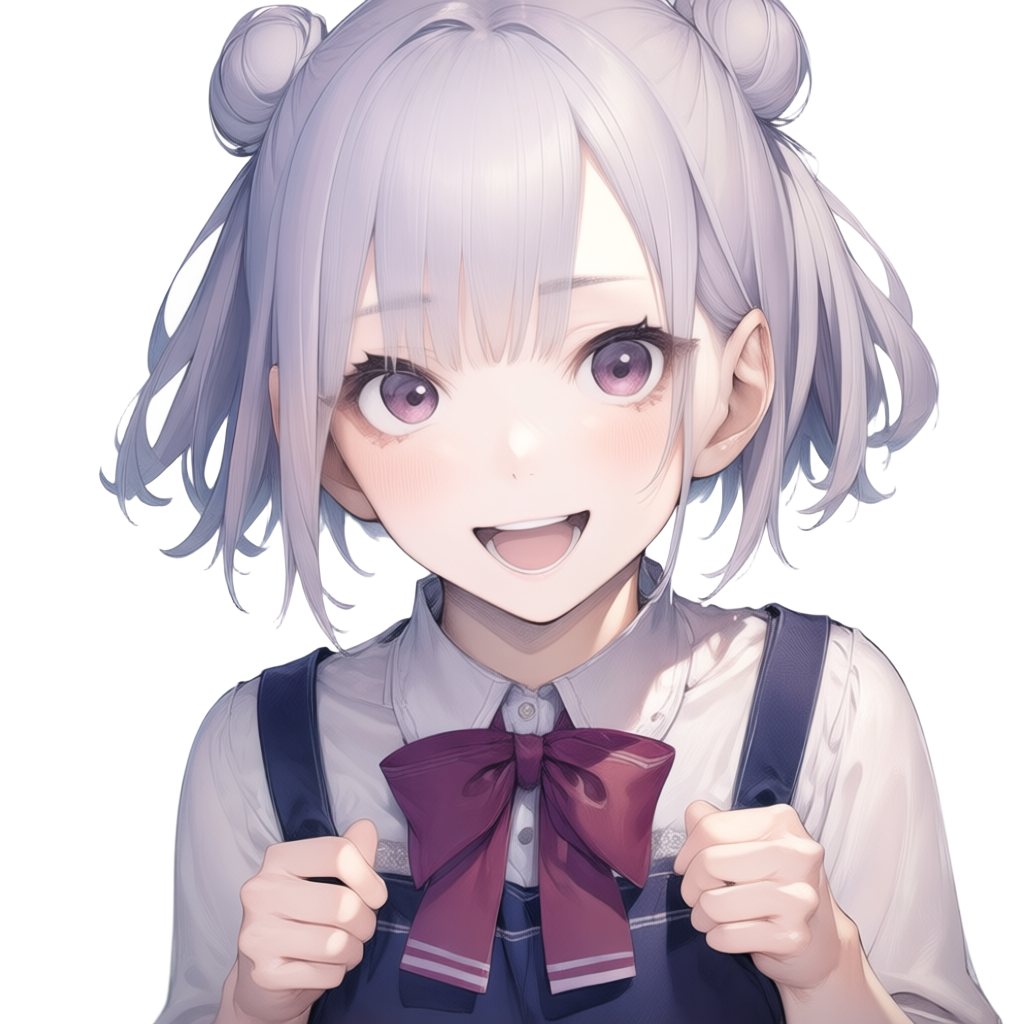
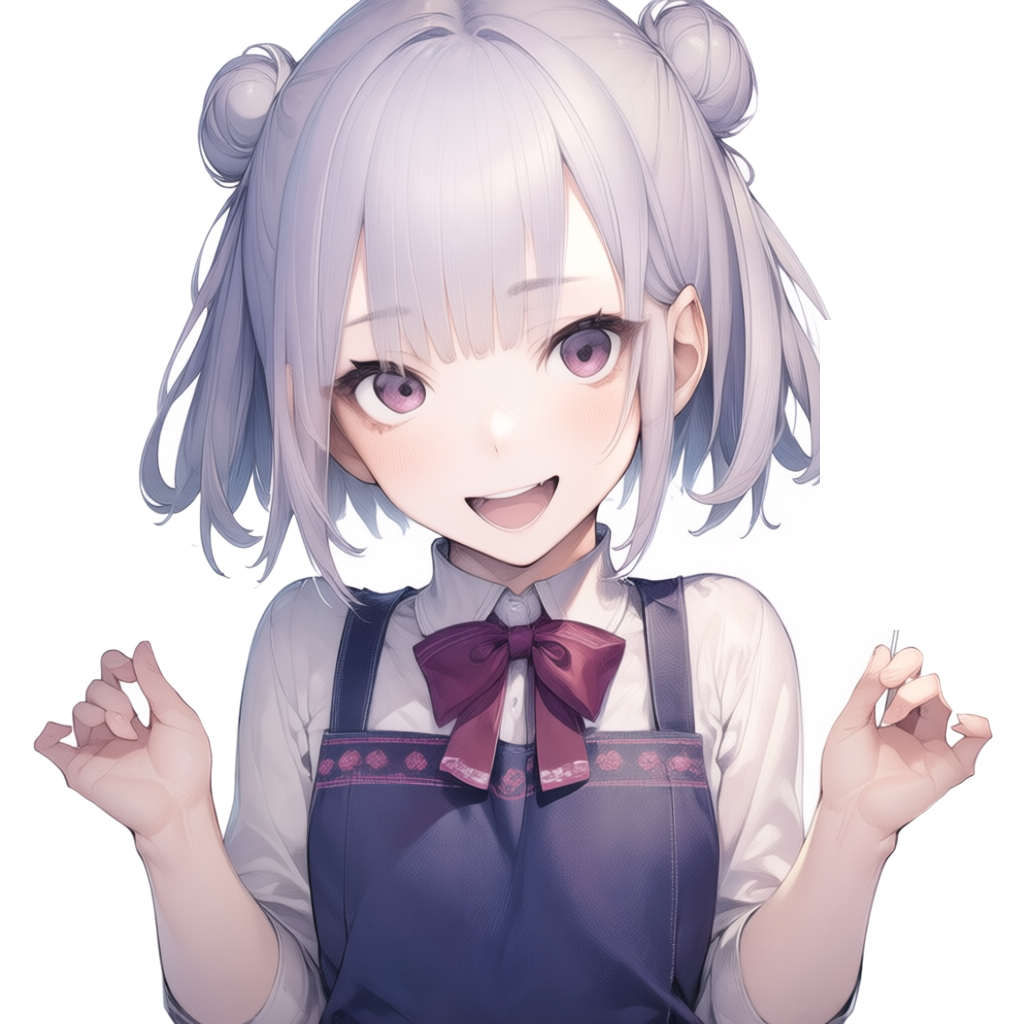
fix: clean duplicate first-sale reaction pilot

diff --git a/tools/assets/remove_white_background.py b/tools/assets/remove_white_background.py
@@ -1,0 +1,57 @@
+"""Remove a connected white background while preserving the original canvas.
+
+This is a narrow fallback for white-background character renders when the
+background-removal model produces an opaque result.  Only near-white pixels
+connected to the image border are removed; enclosed white clothing/highlights
+are retained.  The input is never modified.
+"""
+
+from __future__ import annotations
+
+import argparse
+from pathlib import Path
+
+import numpy as np
+from PIL import Image
+from scipy import ndimage
+
+
+def remove_background(source: Path, destination: Path) -> dict[str, int | str]:
+    image = np.asarray(Image.open(source).convert("RGB")).astype(np.float32)
+    minimum = image.min(axis=2)
+    maximum = image.max(axis=2)
+    near_white = (minimum >= 236) & ((maximum - minimum) <= 14)
+    labels, count = ndimage.label(near_white)
+    border_labels = set(np.unique(np.concatenate([labels[0], labels[-1], labels[:, 0], labels[:, -1]]))) - {0}
+    background = np.isin(labels, list(border_labels))
+
+    # Make the edge transition transparent without destroying white sleeves
+    # or highlights that are enclosed by the foreground silhouette.
+    alpha = np.where(background, 0.0, 1.0)
+    band = ndimage.binary_dilation(background, iterations=4) & ~background
+    alpha[band] = np.minimum(alpha[band], np.clip((255.0 - minimum[band]) / 70.0, 0.0, 1.0))
+    alpha = ndimage.gaussian_filter(alpha, 0.7)
+    rgb = image.copy()
+    destination.parent.mkdir(parents=True, exist_ok=True)
+    output = np.dstack([rgb.astype(np.uint8), (alpha * 255).astype(np.uint8)])
+    Image.fromarray(output, "RGBA").save(destination)
+    return {
+        "input": str(source),
+        "output": str(destination),
+        "width": int(image.shape[1]),
+        "height": int(image.shape[0]),
+        "border_components_removed": len(border_labels),
+    }
+
+
+def main() -> int:
+    parser = argparse.ArgumentParser(description=__doc__)
+    parser.add_argument("input", type=Path)
+    parser.add_argument("output", type=Path)
+    args = parser.parse_args()
+    print(remove_background(args.input, args.output))
+    return 0
+
+
+if __name__ == "__main__":
+    raise SystemExit(main())

diff --git a/tests/tools/test_character_pilot_assets.py b/tests/tools/test_character_pilot_assets.py
@@ -18,6 +18,7 @@ REACTION_SYMBOL_REGIONS = {
     "reaction_discovery": (760, 0, 1024, 240),
     "reaction_deadpan": (740, 0, 1024, 220),
     "reaction_pleading": (800, 0, 1024, 340),
+    "reaction_first_sale_joy": (820, 320, 1024, 630),
 }
 
 
@@ -153,6 +154,14 @@ class CharacterPilotAssetTests(unittest.TestCase):
             with Image.open(runtime) as image:
                 alpha = np.array(image.convert("RGBA"))[:, :, 3]
             self.assertEqual(int(alpha[top:bottom, left:right].max()), 0, asset_id)
+
+    def test_first_sale_reaction_keeps_canvas_and_has_transparent_corners(self):
+        path = ROOT / "assets" / "runtime" / "character_pilot" / "derived_alpha" / "reaction_first_sale_joy.png"
+        with Image.open(path) as image:
+            rgba = image.convert("RGBA")
+            self.assertEqual(rgba.size, (1024, 1024))
+            alpha = np.array(rgba.getchannel("A"))
+        self.assertEqual([int(alpha[0, 0]), int(alpha[0, -1]), int(alpha[-1, 0]), int(alpha[-1, -1])], [0, 0, 0, 0])
 
 
 if __name__ == "__main__":

diff --git a/tools/assets/clean_reaction_symbol_regions.py b/tools/assets/clean_reaction_symbol_regions.py
@@ -20,6 +20,11 @@ REGIONS: dict[str, tuple[int, int, int, int]] = {
     "reaction_discovery.png": (760, 0, 1024, 240),
     "reaction_deadpan.png": (740, 0, 1024, 220),
     "reaction_pleading.png": (800, 0, 1024, 340),
+    # The first-sale candidate was switched to reaction_022: it has a clear
+    # celebratory face/hand pose, but its generated exclamation balloon must
+    # remain a Godot-owned overlay.  Stop above the hand so the character's
+    # fingers and wrist are preserved.
+    "reaction_first_sale_joy.png": (820, 320, 1024, 630),
 }
 
 
